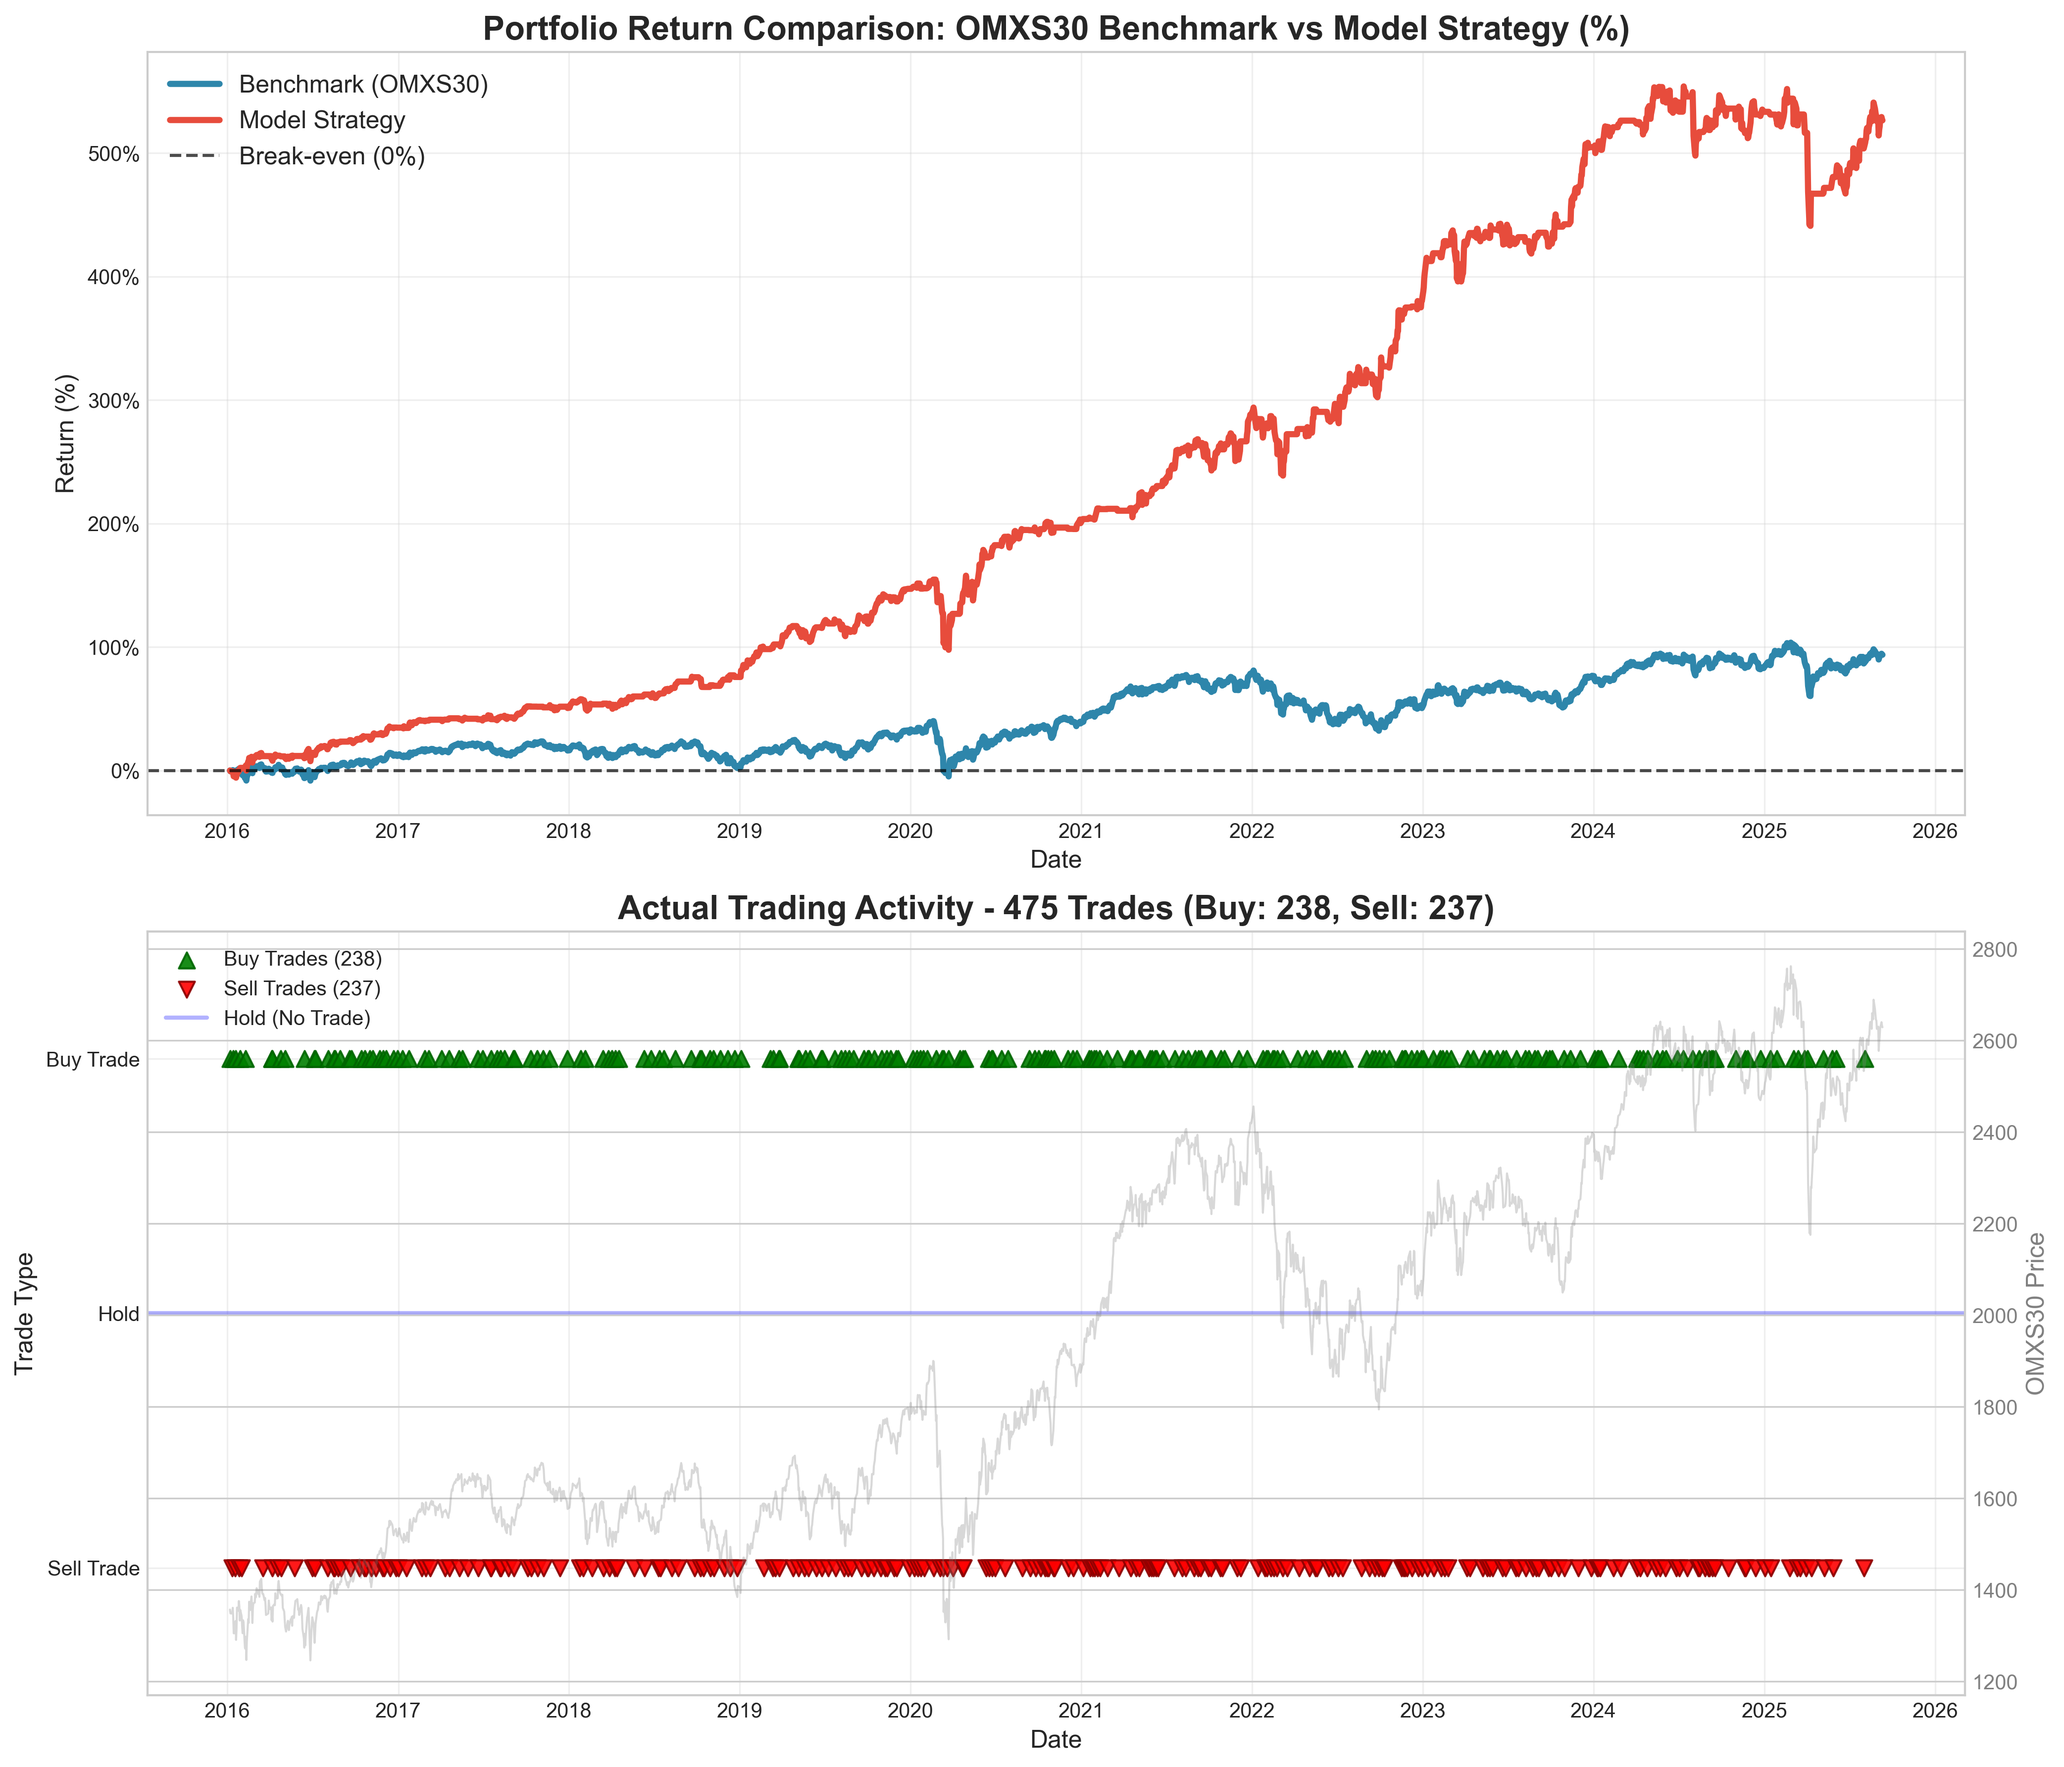
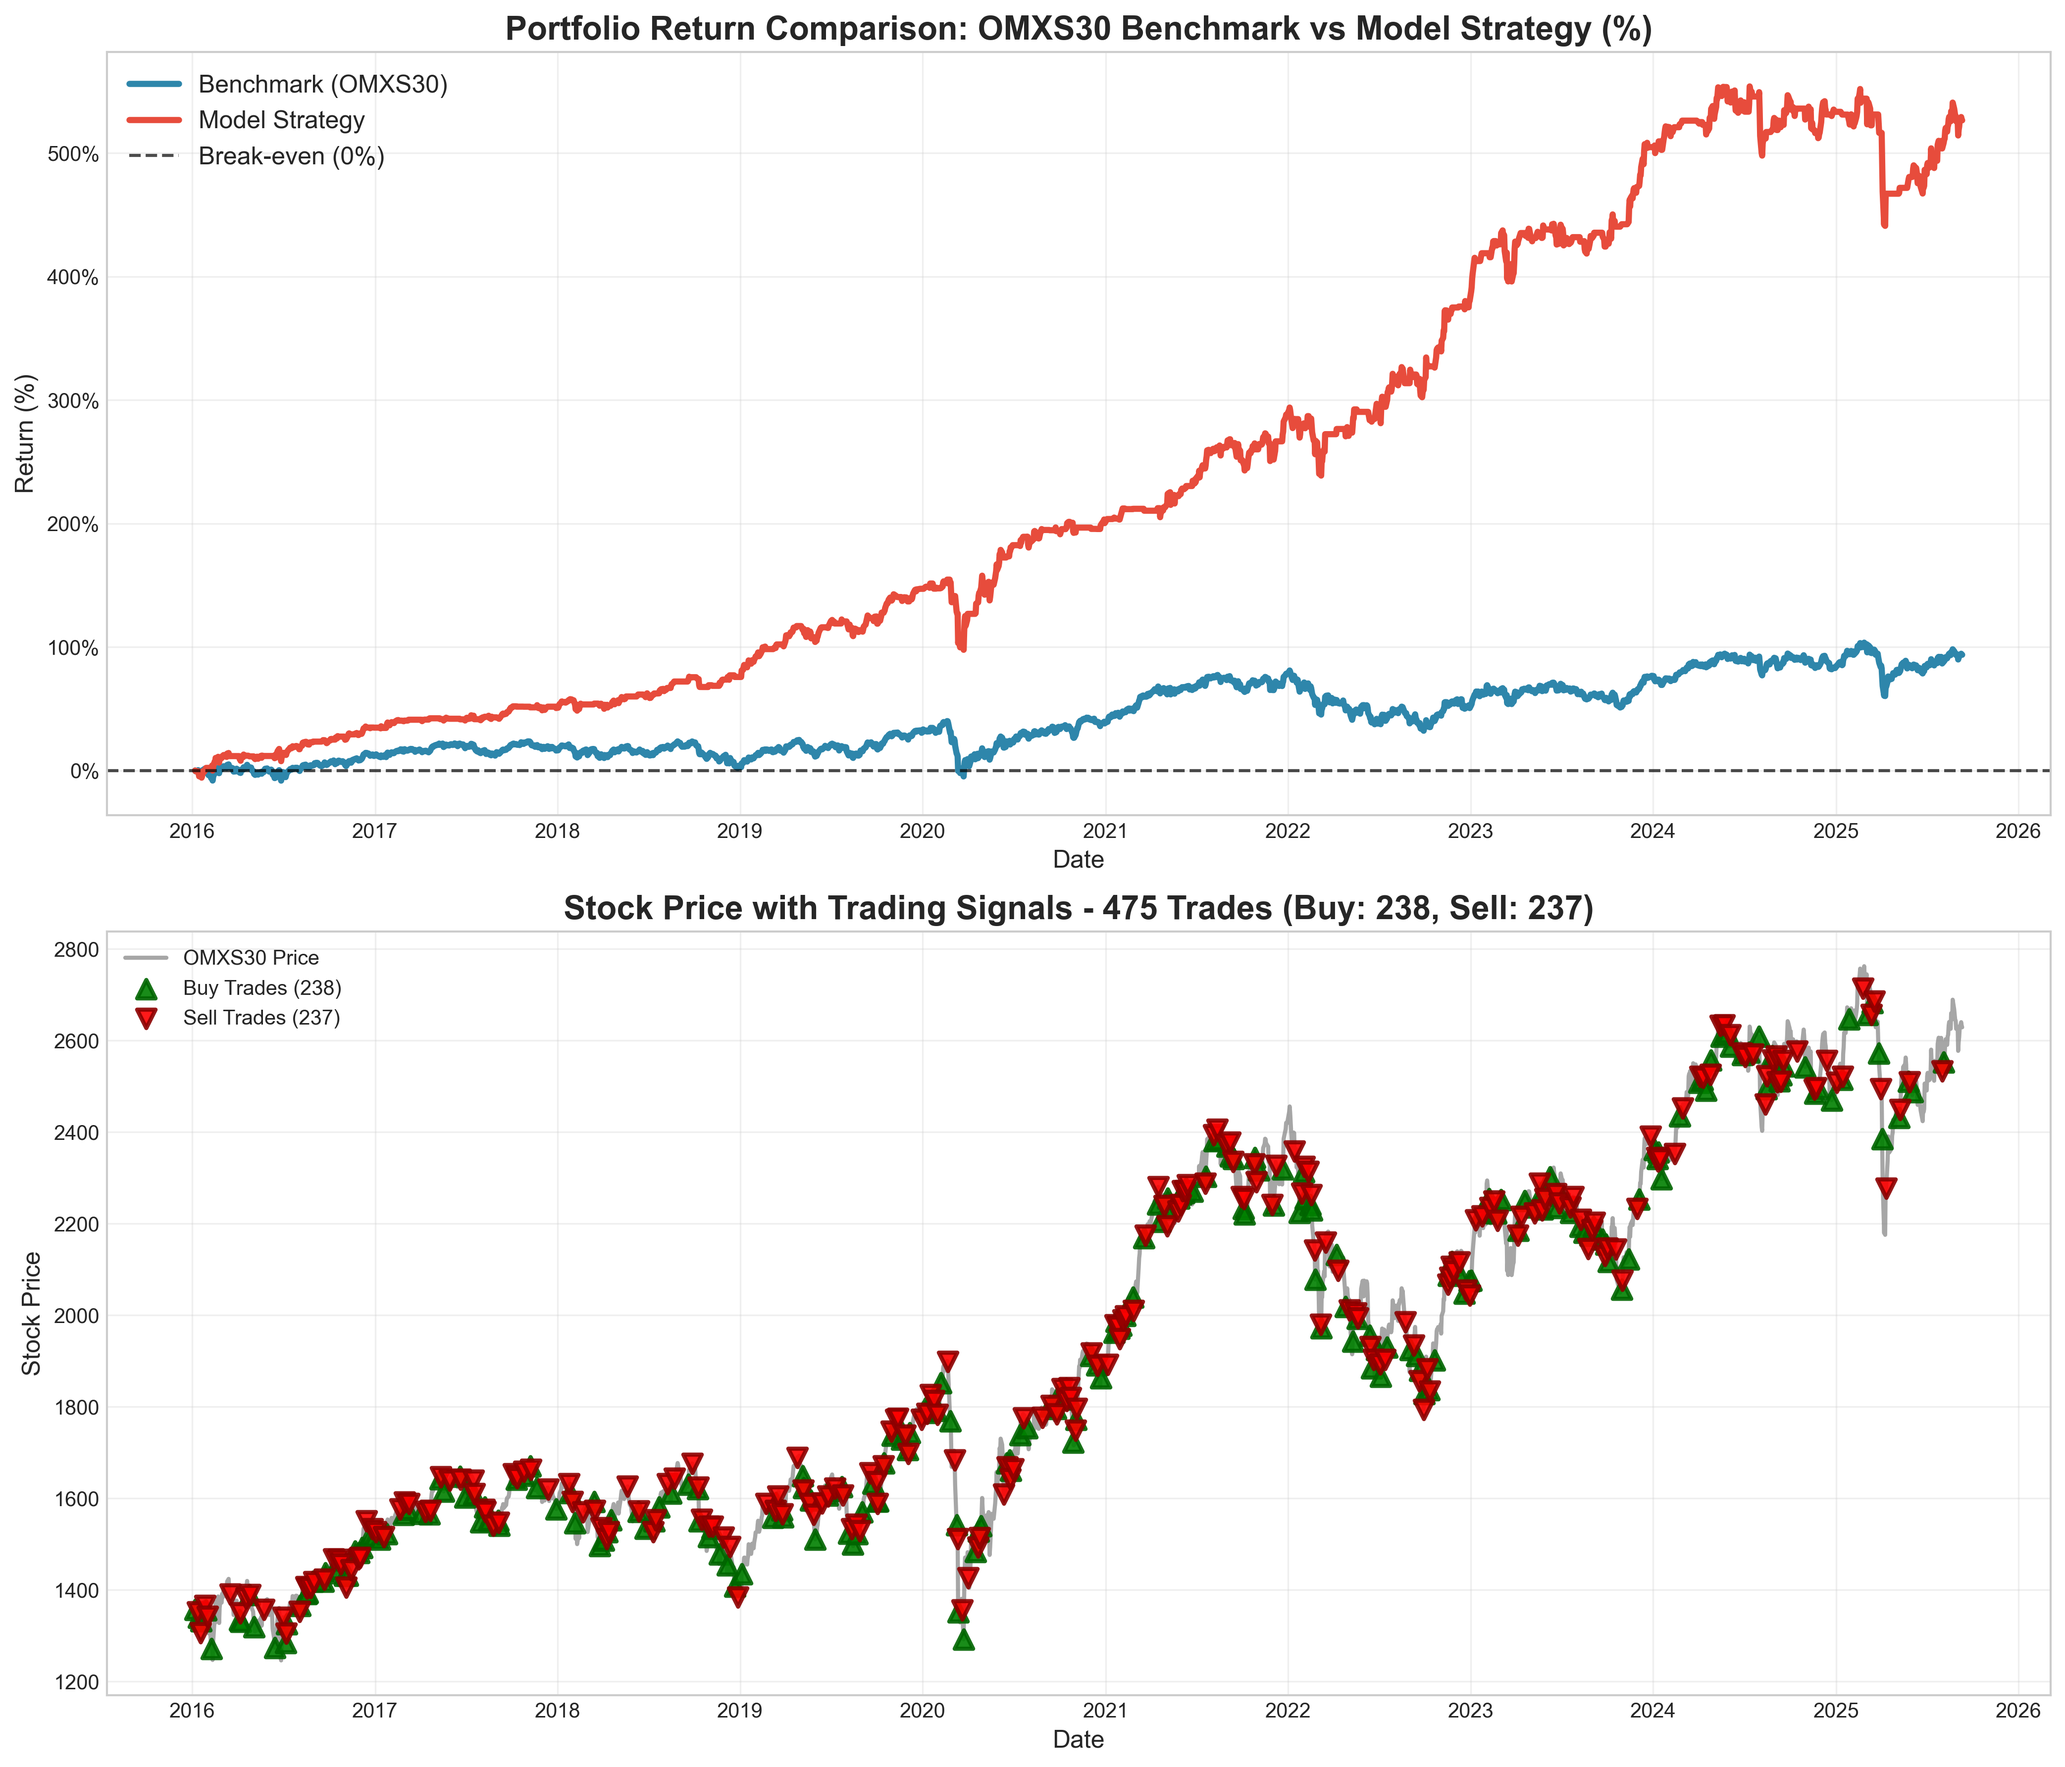
imrpove visualizer by placing triangles on stock line

diff --git a/visualizer/visualize_portfolio.py b/visualizer/visualize_portfolio.py
@@ -355,52 +355,51 @@ class PortfolioVisualizer:
         
         # Plot 2: Model Trading Signals (Actual Trades Only)
         if hasattr(self, 'model_portfolio_data') and hasattr(self, 'model_trades_data'):
-            # Plot stock price as background
-            ax2_price = ax2.twinx()
-            ax2_price.plot(self.model_portfolio_data['Date'], self.model_portfolio_data['Close'], 
-                          color='gray', alpha=0.3, linewidth=1, label=f'{self.benchmark_stock} Price')
-            ax2_price.set_ylabel(f'{self.benchmark_stock} Price', fontsize=12, color='gray')
-            ax2_price.tick_params(axis='y', labelcolor='gray')
+            # Plot stock price as main chart
+            ax2.plot(self.model_portfolio_data['Date'], self.model_portfolio_data['Close'], 
+                    color='gray', alpha=0.7, linewidth=2, label=f'{self.benchmark_stock} Price')
             
             if not self.model_trades_data.empty:
+                # Merge trades with model portfolio data to get stock prices at trade dates
+                trades_with_prices = pd.merge(
+                    self.model_trades_data,
+                    self.model_portfolio_data[['Date', 'Close']],
+                    left_on='date',
+                    right_on='Date',
+                    how='left'
+                )
+                
                 # Separate actual trades by type
-                buy_trades = self.model_trades_data[self.model_trades_data['type'] == 'buy']
-                sell_trades = self.model_trades_data[self.model_trades_data['type'] == 'sell']
+                buy_trades = trades_with_prices[trades_with_prices['type'] == 'buy']
+                sell_trades = trades_with_prices[trades_with_prices['type'] == 'sell']
                 
-                # Plot actual buy trades (green triangles pointing up)
+                # Plot actual buy trades (green triangles pointing up) on stock price
                 if not buy_trades.empty:
-                    ax2.scatter(buy_trades['date'], [2] * len(buy_trades), 
-                               color='green', marker='^', s=60, alpha=0.9, 
-                               label=f'Buy Trades ({len(buy_trades)})', edgecolors='darkgreen', linewidth=1)
+                    ax2.scatter(buy_trades['date'], buy_trades['Close'], 
+                               color='green', marker='^', s=80, alpha=0.9, 
+                               label=f'Buy Trades ({len(buy_trades)})', edgecolors='darkgreen', linewidth=2, zorder=5)
                 
-                # Plot actual sell trades (red triangles pointing down)
+                # Plot actual sell trades (red triangles pointing down) on stock price
                 if not sell_trades.empty:
-                    ax2.scatter(sell_trades['date'], [0] * len(sell_trades), 
-                               color='red', marker='v', s=60, alpha=0.9, 
-                               label=f'Sell Trades ({len(sell_trades)})', edgecolors='darkred', linewidth=1)
-                
-                # Add a horizontal line at hold level for reference
-                ax2.axhline(y=1, color='blue', alpha=0.3, linestyle='-', linewidth=2, label='Hold (No Trade)')
-                
-                ax2.set_ylim(-0.5, 2.5)
-                ax2.set_yticks([0, 1, 2])
-                ax2.set_yticklabels(['Sell Trade', 'Hold', 'Buy Trade'])
+                    ax2.scatter(sell_trades['date'], sell_trades['Close'], 
+                               color='red', marker='v', s=80, alpha=0.9, 
+                               label=f'Sell Trades ({len(sell_trades)})', edgecolors='darkred', linewidth=2, zorder=5)
                 
                 # Add trade count to title
                 total_trades = len(buy_trades) + len(sell_trades)
-                ax2.set_title(f'Actual Trading Activity - {total_trades} Trades (Buy: {len(buy_trades)}, Sell: {len(sell_trades)})', 
+                ax2.set_title(f'Stock Price with Trading Signals - {total_trades} Trades (Buy: {len(buy_trades)}, Sell: {len(sell_trades)})', 
                              fontsize=16, fontweight='bold')
             else:
                 ax2.text(0.5, 0.5, 'No trades executed', 
                         transform=ax2.transAxes, ha='center', va='center', fontsize=14)
-                ax2.set_title('Actual Trading Activity - No Trades', fontsize=16, fontweight='bold')
+                ax2.set_title('Stock Price with Trading Signals - No Trades', fontsize=16, fontweight='bold')
         else:
             ax2.text(0.5, 0.5, 'No model data available', 
                     transform=ax2.transAxes, ha='center', va='center', fontsize=14)
-            ax2.set_title('Actual Trading Activity', fontsize=16, fontweight='bold')
+            ax2.set_title('Stock Price with Trading Signals', fontsize=16, fontweight='bold')
         
         ax2.set_xlabel('Date', fontsize=12)
-        ax2.set_ylabel('Trade Type', fontsize=12)
+        ax2.set_ylabel('Stock Price', fontsize=12)
         ax2.legend(loc='upper left', fontsize=10)
         ax2.grid(True, alpha=0.3)
         
